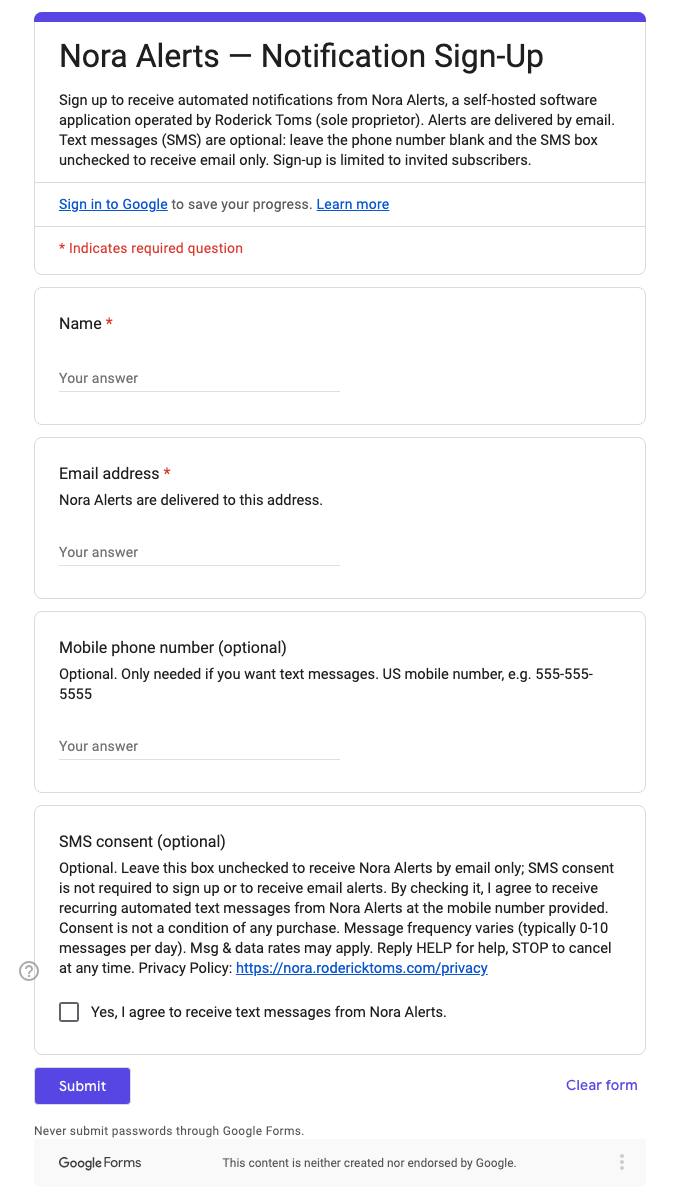
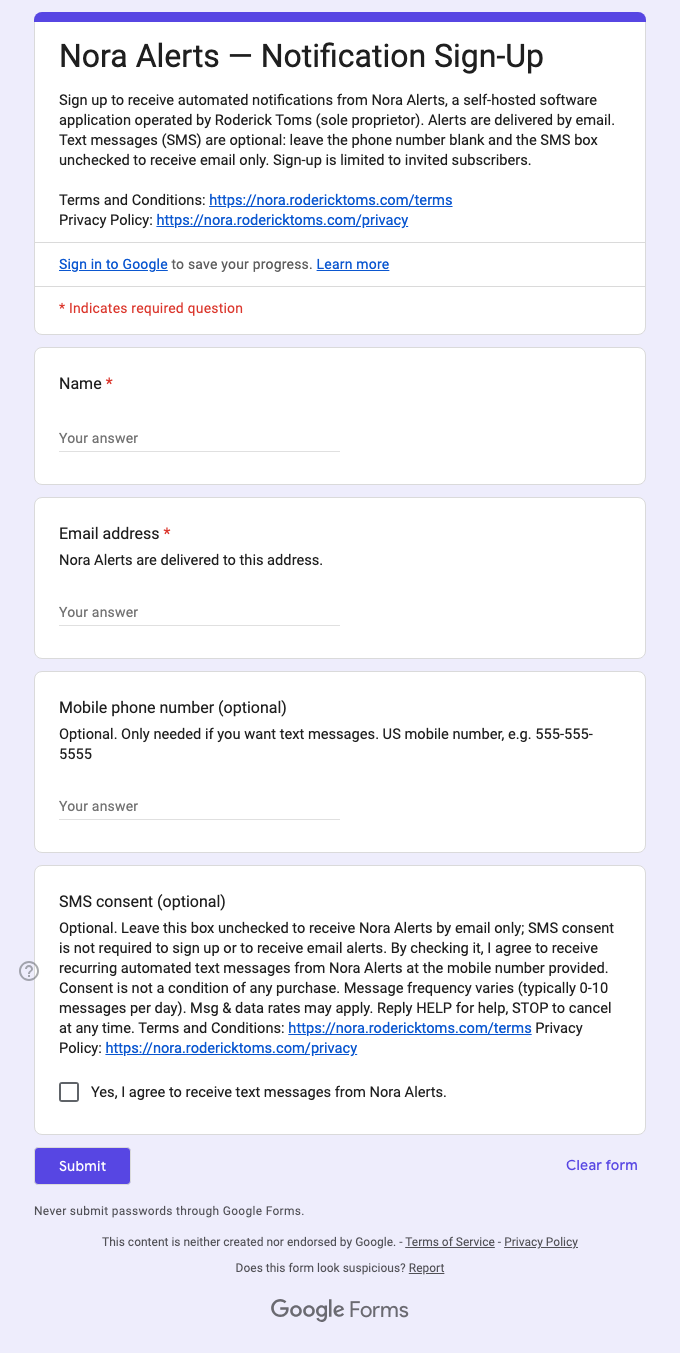
Refresh form screenshot with terms link; taller form iframe (A2P 30882/30896 fix)

Changed region(s): [[0.0309, 0.0, 0.9574, 0.9925], [0.8338, 0.8374, 0.9574, 0.8684], [0.0309, 0.7133, 0.0618, 0.7443]]

diff --git a/index.html b/index.html
@@ -27,7 +27,7 @@
   <div class="card">
     <h2 style="margin-top:0">Sign up</h2>
     <p>Enter your name and email address to receive Nora Alerts by email. <strong>Text messages are optional:</strong> to also get alerts by SMS, add your mobile number and check the separate SMS consent box. You can leave the phone number blank and the box unchecked and still receive every alert by email. Sign-up is limited to invited subscribers.</p>
-    <iframe src="https://docs.google.com/forms/d/e/1FAIpQLSftjJioasbcCWJeIXNIZniIJnU_3Tgo9RwUQUXo7aJqG3S2Qg/viewform?embedded=true" title="Nora Alerts SMS sign-up form" style="width:100%;height:1260px;border:0;border-radius:8px;background:#fff">Loading…</iframe>
+    <iframe src="https://docs.google.com/forms/d/e/1FAIpQLSftjJioasbcCWJeIXNIZniIJnU_3Tgo9RwUQUXo7aJqG3S2Qg/viewform?embedded=true" title="Nora Alerts SMS sign-up form" style="width:100%;height:1440px;border:0;border-radius:8px;background:#fff">Loading…</iframe>
     <p class="fine">Form not loading? <a href="https://docs.google.com/forms/d/e/1FAIpQLSftjJioasbcCWJeIXNIZniIJnU_3Tgo9RwUQUXo7aJqG3S2Qg/viewform">Open the sign-up form</a>.</p>
     <p class="fine" style="margin-bottom:0">SMS consent is optional and is not required to use Nora Alerts. If you check the SMS consent box, you agree to receive recurring automated text messages from Nora Alerts at the number provided. Consent is not a condition of any purchase or of receiving email alerts. Message frequency varies (typically 0–10 messages per day). Msg &amp; data rates may apply. Reply <strong>HELP</strong> for help, <strong>STOP</strong> to cancel at any time. Terms and Conditions: <a href="https://nora.rodericktoms.com/terms">https://nora.rodericktoms.com/terms</a>. Privacy Policy: <a href="https://nora.rodericktoms.com/privacy">https://nora.rodericktoms.com/privacy</a>.</p>
   </div>
